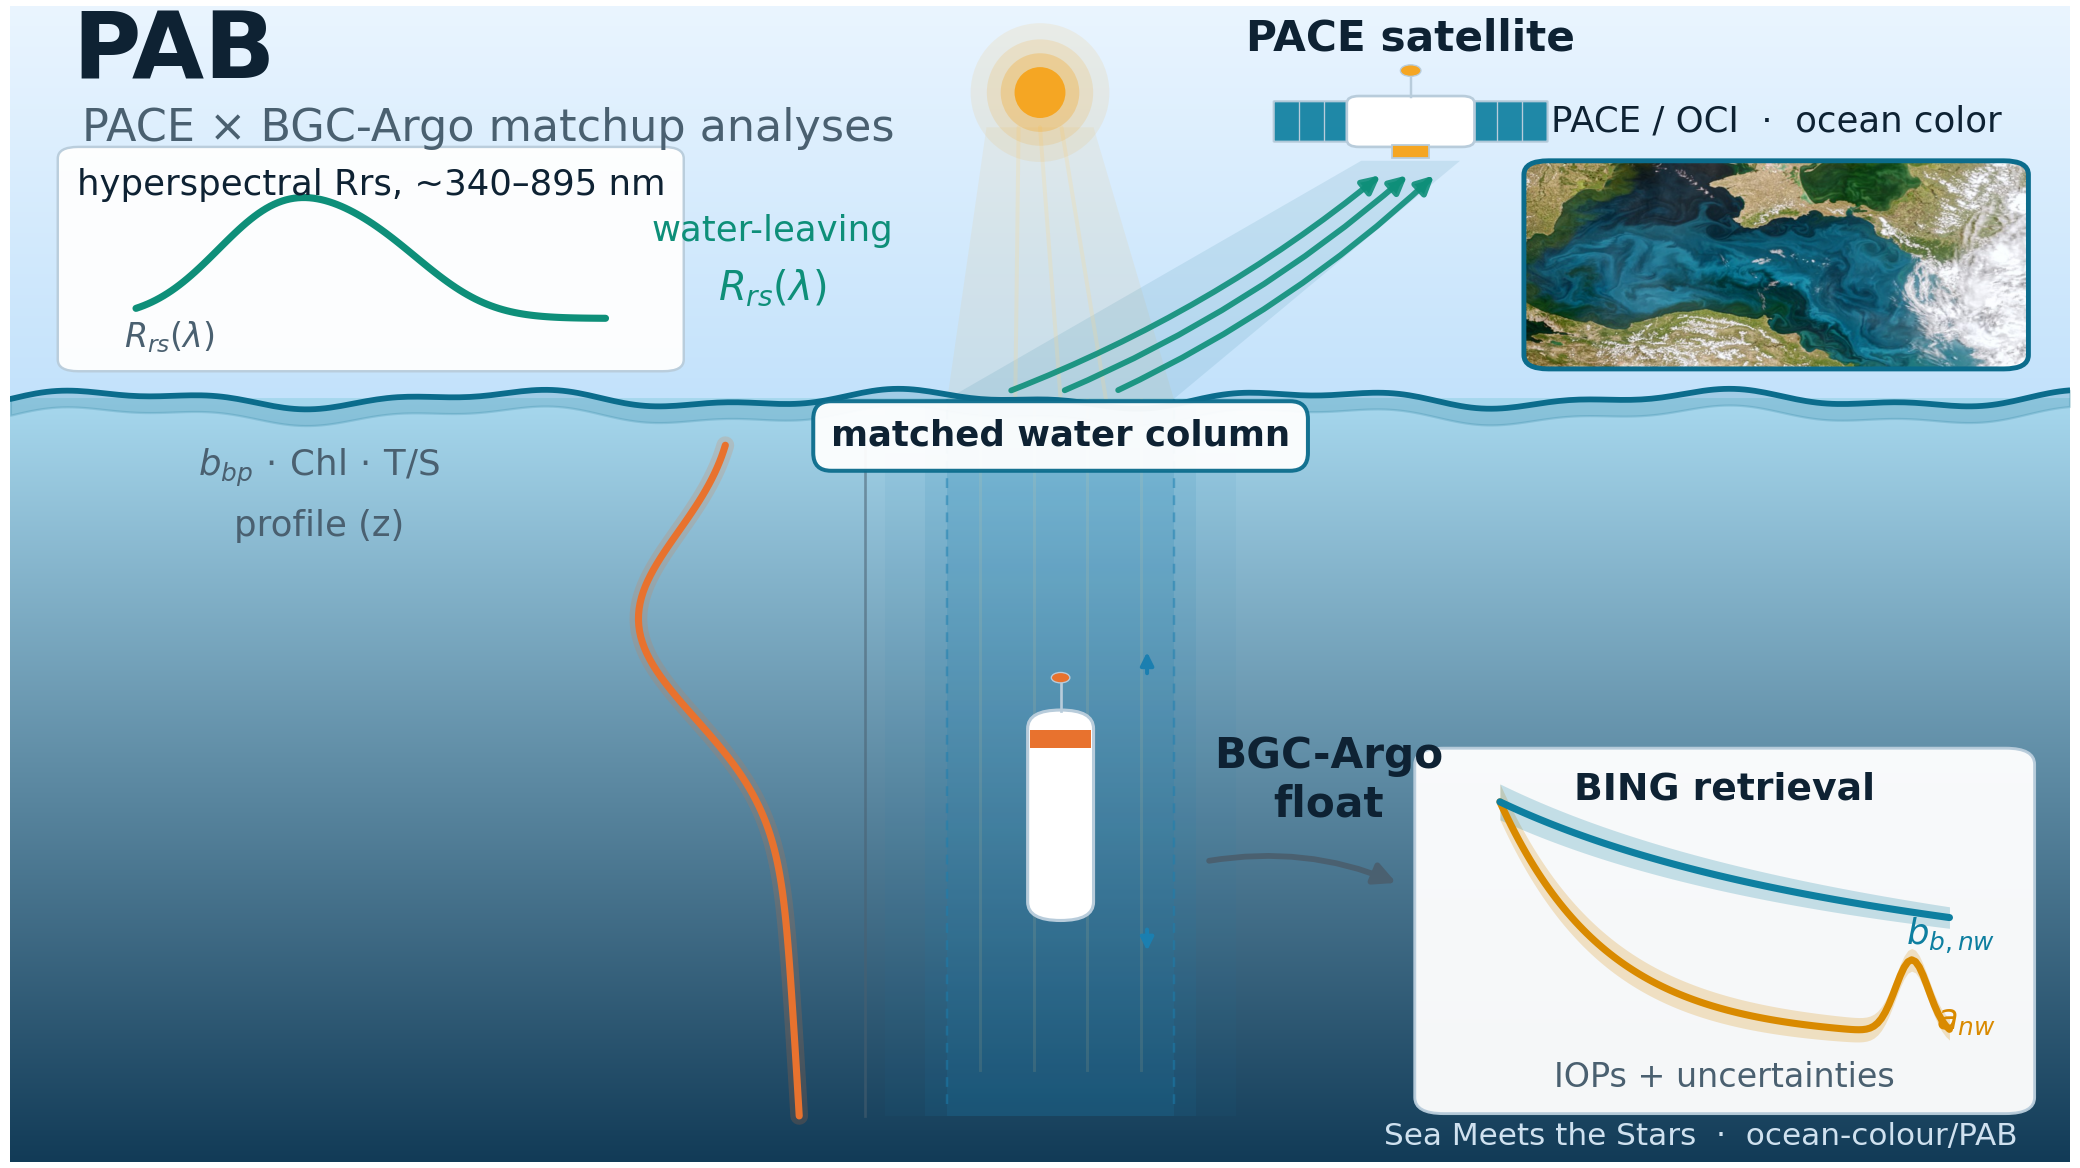
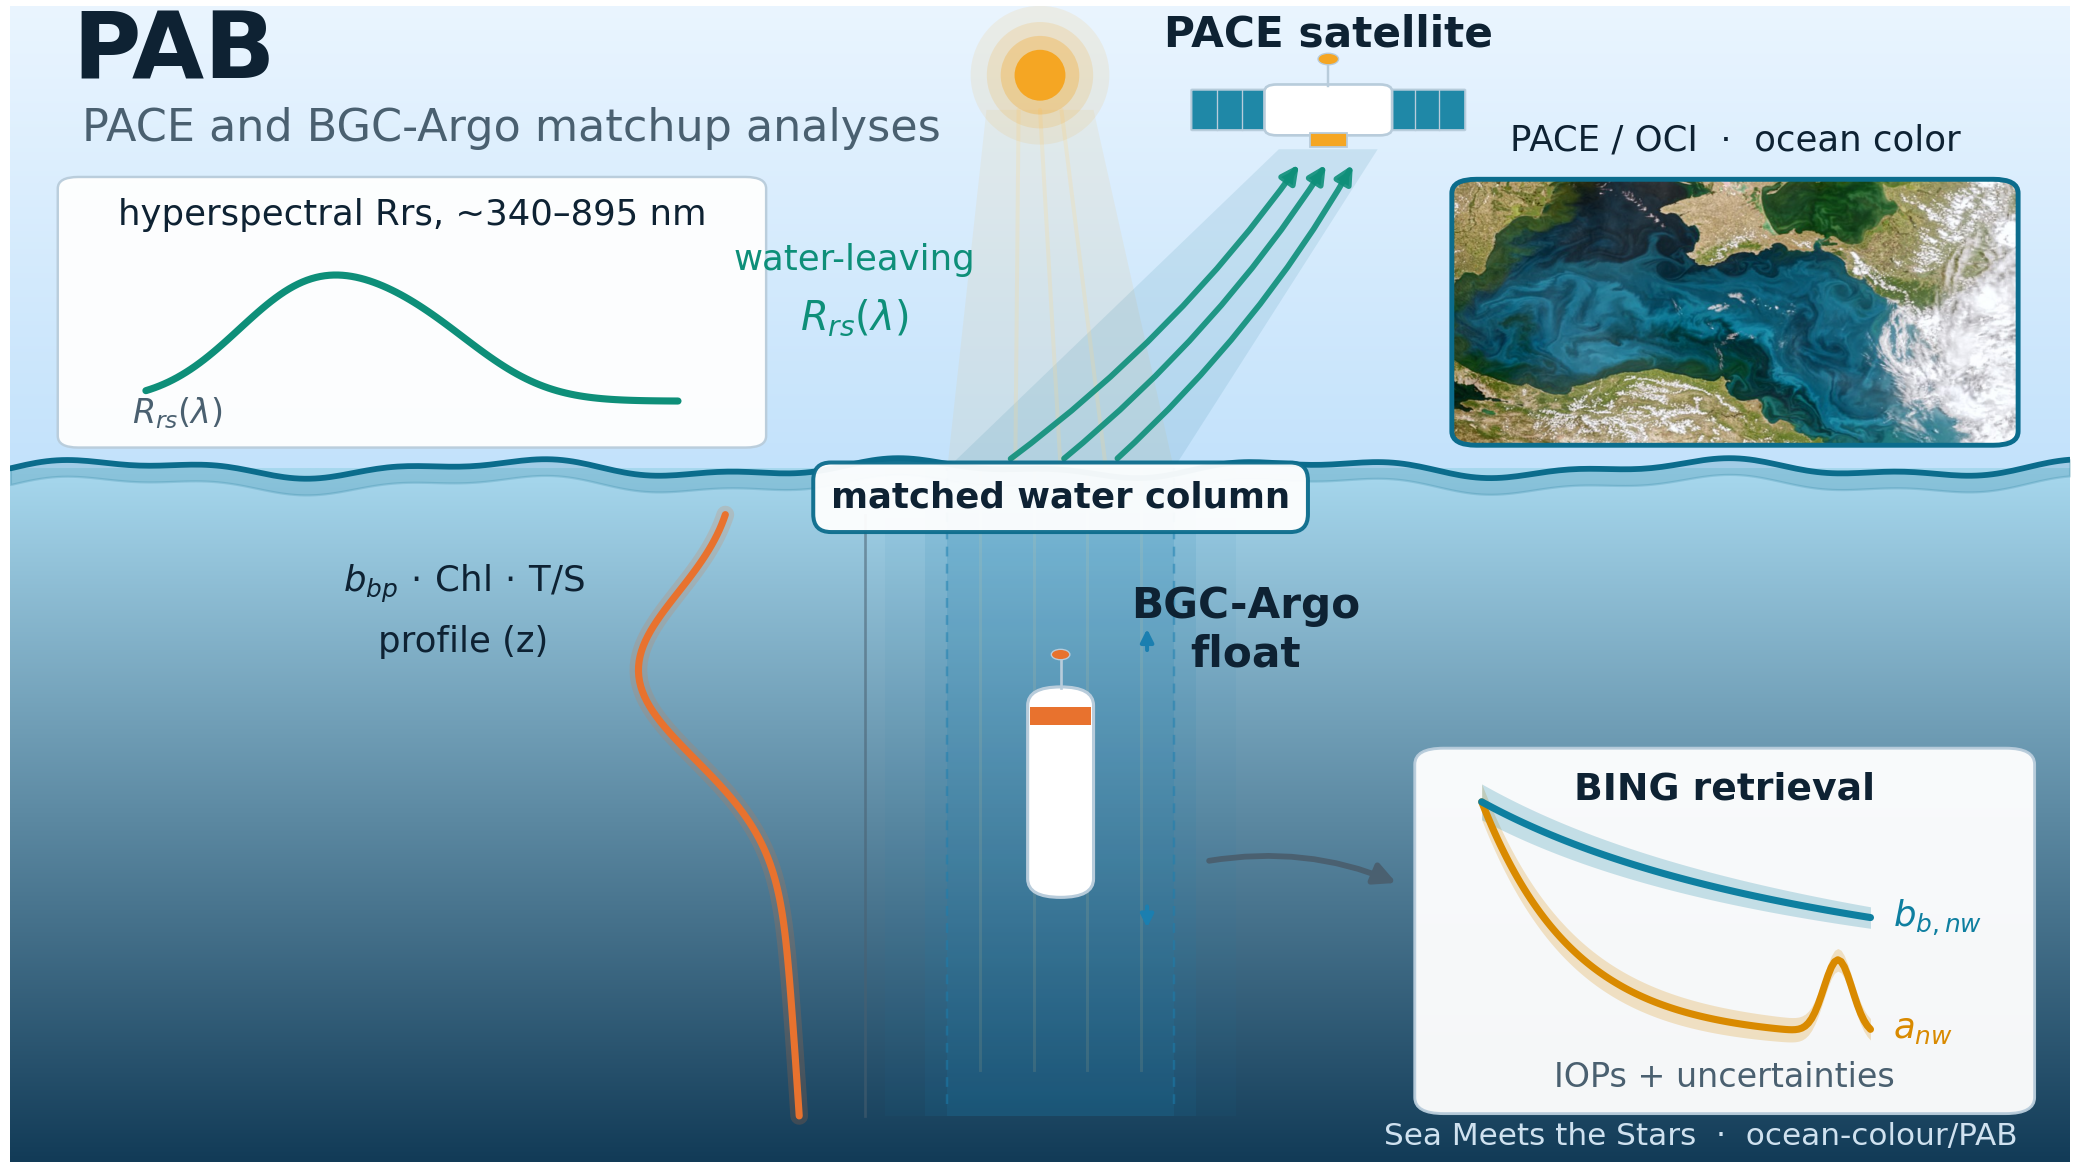
ok

diff --git a/docs/scripts/pab_graphic.py b/docs/scripts/pab_graphic.py
@@ -218,7 +218,7 @@ def mini_curve(ax, T, x0, y0, w, h, title):
                  zorder=7))
     wl, rrs = rrs_spectrum()
     xs = x0 + 0.12 * w + 0.76 * w * (wl - wl.min()) / np.ptp(wl)
-    ys = y0 + 0.20 * h + 0.58 * h * rrs
+    ys = y0 + 0.14 * h + 0.50 * h * rrs   # lowered to clear the panel title
     ax.plot(xs, ys, color=T["rrs"], lw=3.2, zorder=8, solid_capstyle="round")
     ax.text(x0 + w / 2, y0 + h - 1.6, title, ha="center", va="top",
             color=T["ink"], fontsize=16, zorder=8)
@@ -233,7 +233,8 @@ def iop_callout(ax, T, x0, y0, w, h):
                  fc=T["panel"], ec=T["panel_edge"], lw=1.3, alpha=0.96,
                  zorder=7))
     wl, a, bb = iop_spectra()
-    xs = x0 + 0.13 * w + 0.74 * w * (wl - wl.min()) / np.ptp(wl)
+    # leave a right-hand margin so the a_nw / b_b,nw labels sit off the curves
+    xs = x0 + 0.10 * w + 0.64 * w * (wl - wl.min()) / np.ptp(wl)
 
     def place(v, lo=0.20, hi=0.66):
         return y0 + lo * h + hi * h * v
@@ -249,10 +250,10 @@ def iop_callout(ax, T, x0, y0, w, h):
     ax.text(x0 + w / 2, y0 + h - 1.7, "BING retrieval",
             ha="center", va="top", color=T["ink"], fontsize=17,
             fontweight="bold", zorder=9)
-    ax.text(x0 + w - 1.6, ya[-1] + 0.8, r"$a_{nw}$", color=T["iop_a"],
-            fontsize=16, va="center", ha="right", zorder=9)
-    ax.text(x0 + w - 1.6, ybb[-1] - 1.6, r"$b_{b,nw}$", color=T["iop_b"],
-            fontsize=16, va="center", ha="right", zorder=9)
+    ax.text(xs[-1] + 1.1, ya[-1], r"$a_{nw}$", color=T["iop_a"],
+            fontsize=16, va="center", ha="left", zorder=9)
+    ax.text(xs[-1] + 1.1, ybb[-1], r"$b_{b,nw}$", color=T["iop_b"],
+            fontsize=16, va="center", ha="left", zorder=9)
     ax.text(x0 + w / 2, y0 + 1.4, "IOPs + uncertainties", ha="center",
             va="bottom", color=T["ink2"], fontsize=15, zorder=9)
 
@@ -279,7 +280,7 @@ def build(theme="dark", out_path=None):
     ax.set_ylim(0, 100)
     ax.axis("off")
 
-    SEA = 66.0  # sea-surface height
+    SEA = 60.0  # sea-surface height (lowered to enlarge the sky/top imagery)
     # sky + sea gradients
     vgrad(ax, 0, 100, SEA, 100, T["sky_top"], T["sky_bot"], z=0)
     vgrad(ax, 0, 100, 0, SEA, T["sea_top"], T["sea_bot"], z=0)
@@ -295,9 +296,9 @@ def build(theme="dark", out_path=None):
 
     # ---- geometry anchors -------------------------------------------------
     foot_x = 51.0            # PACE footprint center at the surface
-    sat_x, sat_y = 68.0, 90.0
-    sun_x, sun_y = 50.0, 92.5
-    float_x, float_y = foot_x, 30.0
+    sat_x, sat_y = 64.0, 91.0
+    sun_x, sun_y = 50.0, 94.0
+    float_x, float_y = foot_x, 32.0
 
     # matched water column (surface footprint -> below the float): glowing band
     col_w = 11.0
@@ -335,15 +336,16 @@ def build(theme="dark", out_path=None):
             arrowstyle="-|>", mutation_scale=16, color=T["rrs"], lw=2.6,
             alpha=0.9, zorder=3, connectionstyle="arc3,rad=0.08"))
     # label kept in clear sky, off the arrows
-    label(ax, T, 37.0, 80.5, "water-leaving", size=16, weight="normal",
+    label(ax, T, 41.0, 78.0, "water-leaving", size=16, weight="normal",
           ha="center", color=T["rrs"])
-    label(ax, T, 37.0, 75.6, r"$R_{rs}(\lambda)$", size=18, weight="normal",
+    label(ax, T, 41.0, 73.0, r"$R_{rs}(\lambda)$", size=18, weight="normal",
           ha="center", color=T["rrs"])
 
-    # real PACE ocean-color inset + illustrative Rrs panel (both enlarged)
-    rounded_image(ax, T, img, 73.5, 68.6, 24.5, 18.0,
+    # real PACE ocean-color inset + illustrative Rrs panel (both enlarged,
+    # made possible by the lowered sea surface)
+    rounded_image(ax, T, img, 70.0, 62.0, 27.5, 23.0,
                   "PACE / OCI  ·  ocean color")
-    mini_curve(ax, T, 2.5, 68.6, 30.0, 19.0, "hyperspectral Rrs, ~340–895 nm")
+    mini_curve(ax, T, 2.5, 62.0, 34.0, 23.0, "hyperspectral Rrs, ~340–895 nm")
 
     # ---- BGC-Argo float + depth profile ----------------------------------
     draw_float(ax, T, float_x, float_y)
@@ -357,17 +359,17 @@ def build(theme="dark", out_path=None):
             solid_capstyle="round")   # soft glow
     ax.plot(px, pz, color=T["float_stripe"], lw=3.2, zorder=5,
             solid_capstyle="round")
-    # profile labels parked in the open water to the left (off the curve)
-    label(ax, T, 15.0, 60.0, r"$b_{bp}\,\cdot\,$Chl$\,\cdot\,$T/S", size=16,
-          weight="normal", ha="center", color=T["ink2"])
-    label(ax, T, 15.0, 55.0, "profile (z)", size=16, weight="normal",
-          ha="center", color=T["ink2"])
+    # profile labels near the curve (to its left), in the darker primary ink
+    label(ax, T, 22.0, 50.0, r"$b_{bp}\,\cdot\,$Chl$\,\cdot\,$T/S", size=16,
+          weight="normal", ha="center", color=T["ink"])
+    label(ax, T, 22.0, 45.0, "profile (z)", size=16, weight="normal",
+          ha="center", color=T["ink"])
 
     # actor labels, kept in open space (not on lines/curves)
-    label(ax, T, sat_x, sat_y + 7.2, "PACE satellite", size=19)
-    label(ax, T, 64.0, 33.0, "BGC-Argo\nfloat", size=19)
+    label(ax, T, sat_x, sat_y + 6.5, "PACE satellite", size=19)
+    label(ax, T, 60.0, 46.0, "BGC-Argo\nfloat", size=19)
     # matched-column label in a readable pill (was low-contrast on the column)
-    ax.text(foot_x, 62.8, "matched water column", ha="center", va="center",
+    ax.text(foot_x, 57.5, "matched water column", ha="center", va="center",
             fontsize=16, fontweight="bold", color=T["ink"], zorder=10,
             bbox=dict(boxstyle="round,pad=0.5", fc=T["panel"],
                       ec=T["surface"], lw=1.8, alpha=0.95))
@@ -381,7 +383,8 @@ def build(theme="dark", out_path=None):
 
     # ---- title / branding -------------------------------------------------
     label(ax, T, 3.0, 96.0, "PAB", size=42, ha="left")
-    label(ax, T, 3.5, 89.4, "PACE × BGC-Argo matchup analyses", size=20,
+    # spelled-out acronym: PAB = PACE And BGC-Argo
+    label(ax, T, 3.5, 89.4, "PACE and BGC-Argo matchup analyses", size=20,
           weight="normal", ha="left", color=T["ink2"])
     label(ax, T, 97.5, 2.2, "Sea Meets the Stars  ·  ocean-colour/PAB",
           size=14, weight="normal", ha="right", color=T["foot"])

diff --git a/claude_prompts/website.md b/claude_prompts/website.md
@@ -11,6 +11,9 @@ This prompt doc will be used to update the websites for the PAB GitHub Repositor
 2. Read this file.  Execute the 2nd task under "GitHub Website"
 4. Read this file.  Execute the 4th task under "GitHub Website"
 5. Read this file.  Execute the 5th task under "GitHub Website"
+6. Read this file.  Execute the 6th task under "GitHub Website"
+7. Read this file.  Execute the 7th task under "GitHub Website"
+8. Read this file.  Execute the 8th task under "GitHub Website"
 
 ## GitHub Website
 
@@ -45,6 +48,27 @@ In addition, create a new graphic which summarizes the project.  Use your imagin
     - The BGC-Argo float should have a longer aspect ratio.
     - The "matched water column" text is too hard to read
     - Most of the text needs to be larger still
+    - Log your work.
+
+6. Almost there.  Now:
+
+    - The a_nw in the BING retrieval panel is on the curve and hard to read.  Move it to the right
+    - Move the BGC-Argo float text up and off the BING retrieval panel
+    - Make the bbp, Chl, and T-S text darker
+    - Move the Rrs curve down a little so it is off the "hyperspectral" text
+    - Move the water surface down a bit so you can make the images up top larger. do so
+    - Log your work.
+
+7. Hopefully the last edits for now:
+
+    - You moved the BGC-Argo float text up too high.  Move it down a bit
+    - Move the "water-leaving Rrs(λ)" text a little to the left
+    - Move the "bbp / Chl / T-S" text closer to the profile curve
+    - Log your work.
+
+8. Last one for now
+
+    - Spell out PAB (PACE and BGC-Argo)
     - Log your work.
 
 ### Q&A
@@ -241,3 +265,53 @@ Re-rendered both themes (~495 KB each) and verified in light and dark: the
 caption, pill, and long float all read cleanly and nothing collides. README
 still needs no change (same file names). The `--real` (data-backed) variant
 remains available if wanted.
+
+### 2026-07-11 (Graphic fine-tuning pass — task 6)
+
+Applied JXP's third edit list to `docs/scripts/pab_graphic.py`:
+
+- **`a_nw` moved right, off the curve** — the a_nw label sat on the aph
+  fluorescence bump near the right end of the BING panel. Compressed the IOP
+  curves into the left ~64% of the panel (xs range 0.74→0.64 of width) and moved
+  both the `a_nw` and `b_b,nw` labels into the clear right-hand margin,
+  left-aligned just past each curve's endpoint.
+- **"BGC-Argo float" text up and off the BING panel** — was at (64, 33), which
+  overlapped the BING panel's top-left corner. Moved up-and-left to (60, 51),
+  above the float and clear of both the panel and the float's up-arrow.
+- **Darker bbp/Chl/T-S labels** — switched the profile labels from the muted
+  secondary ink (`ink2`) to the primary ink (`ink`) for maximum contrast in both
+  themes.
+- **Lowered the Rrs curve** — in `mini_curve()`, dropped the curve baseline and
+  amplitude (0.20+0.58h → 0.14+0.50h) so the blue-green peak clears the
+  "hyperspectral Rrs…" panel title.
+- **Lowered the sea surface + enlarged the top imagery** — `SEA` 66→60, opening
+  up the sky. Grew the PACE inset (24.5×18 → 27.5×23) and the Rrs panel
+  (30×19 → 34×23), and re-anchored the sun/satellite and the underwater
+  elements (profile, float, matched-column pill) to the new surface height.
+
+Re-rendered and verified both themes (~585 KB each). README unchanged (same
+file names). The `--real` data-backed variant is still on the table.
+
+### 2026-07-11 (Graphic nudge pass — task 7)
+
+Three position tweaks in `docs/scripts/pab_graphic.py`:
+
+- **"BGC-Argo float" label lowered** — task 6 moved it up too far (y 51); brought
+  it back down to y 46, so it sits beside the float rather than floating high.
+- **"water-leaving Rrs(λ)" moved left** — x 46 → 41, further from the upwelling
+  arrows and into clearer sky.
+- **"bbp / Chl / T-S · profile(z)" moved closer to the profile curve** — x 16 →
+  22, so the labels read as belonging to the orange bbp(z) curve (kept just left
+  of the curve so they don't sit on it).
+
+Re-rendered and verified both themes. README unchanged (same file names).
+
+### 2026-07-11 (Spell out the acronym — task 8)
+
+Changed the graphic's subtitle in `docs/scripts/pab_graphic.py` from
+"PACE × BGC-Argo matchup analyses" to **"PACE and BGC-Argo matchup analyses"**.
+This spells out the acronym literally — PAB = **P**ACE **a**nd **B**GC-Argo —
+using "and" in place of the "×" so the three initials read straight off the
+tagline under the big "PAB" title. Re-rendered both themes; no overflow, layout
+otherwise unchanged. (The README tagline already reads "PACE and BGC-Argo
+matchup analyses", so it needed no change.)
